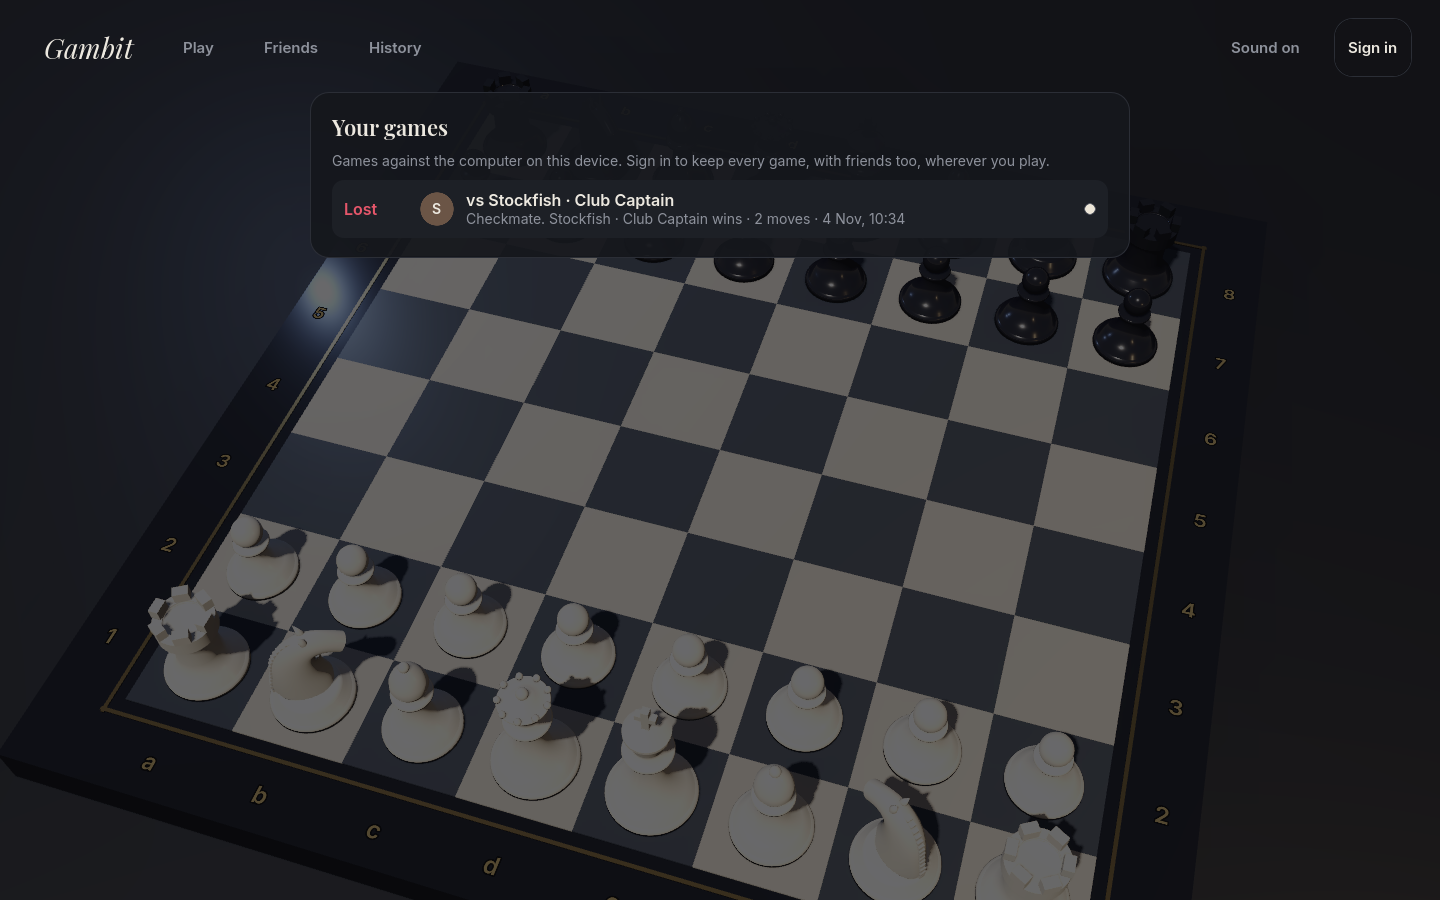
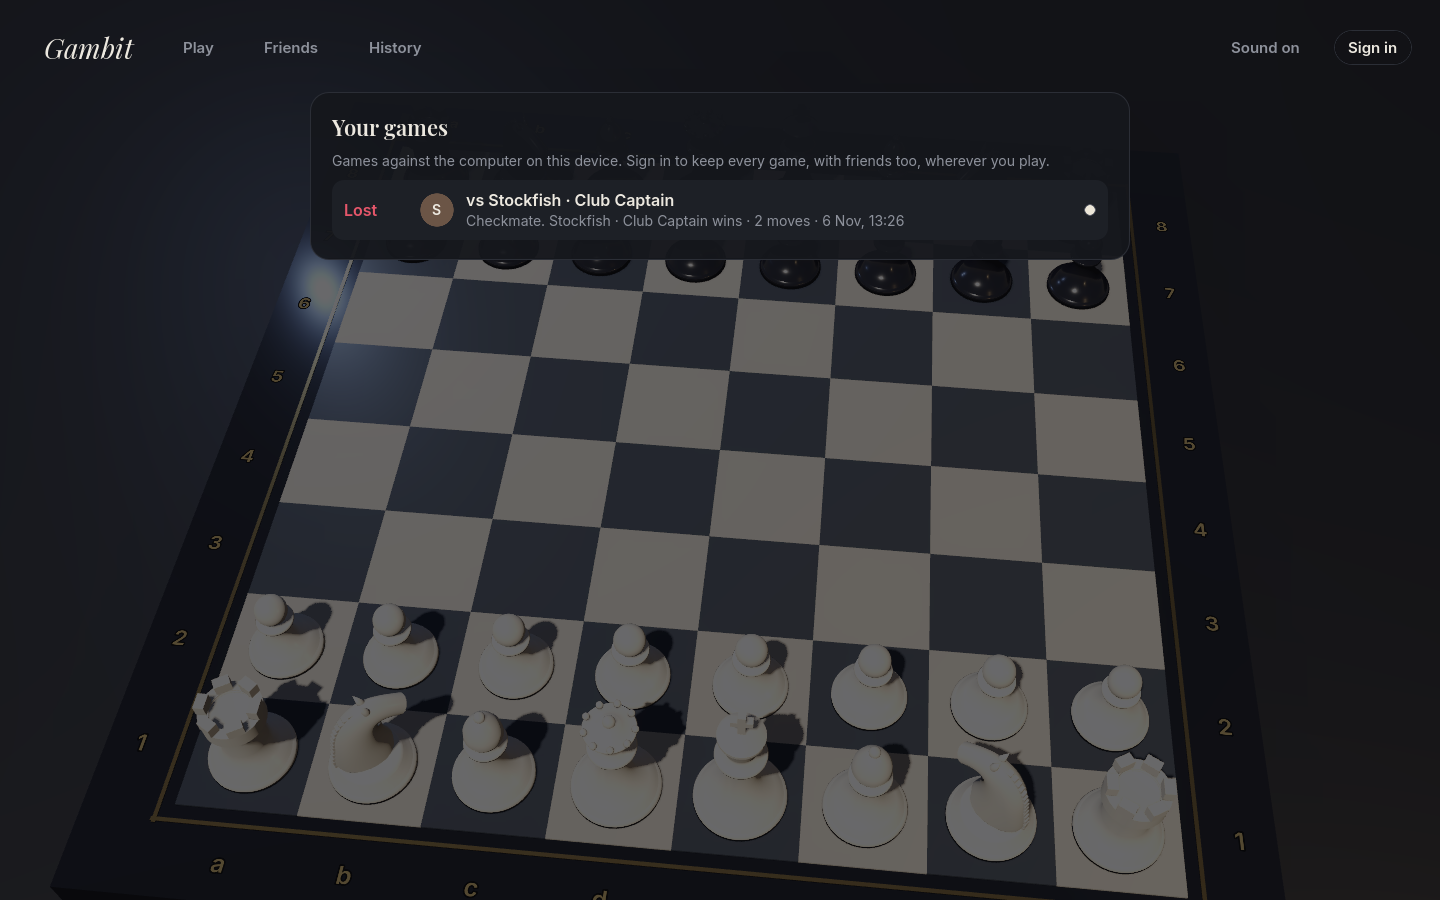
Gambit: build the game to the written design
Brings the client in line with docs/UI-DESIGN.md and docs/ART-BIBLE.md
(as answered in the designer's follow-up), found by auditing the code
against the documents and comparing renders of all 23 reference states.

Behaviour:
- Leave/Back from a game opened on a contact's page returned to the
  contact with no contact and failed; the navigation history now keeps
  each screen's argument.
- The end-of-game sound played twice against the computer.
- Replays: the start reads "Replay · HH:MM" (it showed a date), also
  until the first move; dragging the slider resets Play; no empty
  actions row; the transcript keeps the current entry in view (day
  headings threw the count off); Play's first wait follows the pace.
- The "Looking at move…" banner updates when the game changes, and
  looking back keeps that move in view; a pending "Sure? Resign" is no
  longer reset by an incoming message.
- Lobby: "draw offered" only for the opponent's offer; your own open
  invitation link no longer toasts "That invitation was open."
- "… ago" adds the year for other years; "Can't reach the server. Are
  you online?" everywhere; "Reconnecting…" also when the first
  connection fails.

Table and sound:
- The table turns only behind the title screen, and starts framed for
  it; the window clear colour is #0B0C0F.
- "illegal" plays when a dragged piece is dropped, or a click lands off
  the board, without a move; a fifth sound replaces the oldest; Sound
  off stops what is playing.
[…]

Changed region(s): [[0.0625, 0.28, 0.8438, 1.0], [0.3125, 0.2178, 0.625, 0.2489], [0.4062, 0.9956, 0.4375, 1.0]]

diff --git a/games/chess/docs/GDD.md b/games/chess/docs/GDD.md
@@ -26,6 +26,7 @@ Home (title over a slowly turning board) · Sign-in · Computer set-up · Lobby 
 | 2026-11-08 | Replays play back at the game's own pace, sped up 1×, 4× or 16×, with pauses capped at 3 s. | Claude |
 | 2026-11-08 | The design is written down to be built from: DESIGN.md (acceptance), UI-DESIGN.md, ART-BIBLE.md, design-tokens.json, and 23 reference renders. Writing it fixed four things the renders showed: the lights now turn with the camera (seen from Black the board was glaring), the coordinates read upright from either side, the draw-offer banner puts its buttons under the text, and the transcript shows day headings with plain HH:MM times. Also "1 win" (not "1 wins"). | Owner asked for the designs in the repo; Claude |
 | 2026-11-08 | Answers to the implementer's questions on the design: (1) the top bar's 72 px include its 18 px top margin, so it doesn't overlap the game panel at 84 px; (2) Black's moves are numbered `N…` everywhere, the replay heading included; (3) **Remove from contacts** asks "Sure?" like Resign; every Danger button does; (4) the move hints and the check warning do **not** glow: they are flat unshaded marks, as in the reference renders; (5) the shadow filter is Godot's value 3, which is *medium*; the board coordinates sit at y = 0, level with the squares; chat names keep their case; the 1×/4×/16× pace chips don't stop a playing replay; the result at the end of a replay is gold. The documents and the code now say the same. | Claude (designer) |
+| 2026-11-08 | The game built to the written design. Points the design leaves open, decided in the build: the table turns only behind the title screen and rests behind the list screens; a replay shows `Replay · HH:MM` until the first move (also past a chat before it); dropping a piece back on its own square is just putting it down (no *illegal* sound); a fifth sound replaces the one that started longest ago, and **Sound off** also stops what is playing; the transcript keeps the move being looked at in view; an invitation link you sent yourself, still open, says nothing (it is under **Waiting for an answer**). Reference renders 01–03, 05–11, 16, 18, 19, 21 and 22 re-rendered to match. | Claude |
 | 2026-11-08 | No clocks: correspondence-style games. Email only for new invitations, not for each move. | Claude, open for the owner |
 
 ## Non-goals (for now)

diff --git a/games/chess/README.md b/games/chess/README.md
@@ -71,7 +71,7 @@ You need Node 22 and [Godot 4.7.2](https://godotengine.org/download) with its we
 ```bash
 npm install
 npm test                 # TypeScript: rules, transcript actions, and the whole API on an in-memory SQLite
-npm run test:godot       # GDScript: move generation (perft), SAN, mate and draws
+npm run test:godot       # GDScript: move generation (perft), SAN, mate and draws; the text formats
 cp .dev.vars.example .dev.vars          # DEV_LOGIN=1: sign in as any email, for testing two players
 npx wrangler d1 execute chess --local --file worker/schema.sql
 npm run dev              # exports the game, then wrangler dev at http://localhost:8787/retro/chess/
